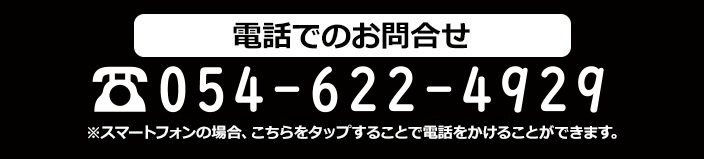
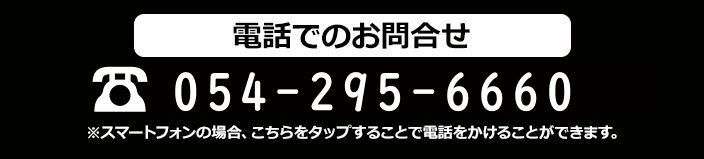
20210224k

Changed region(s): [[0.2188, 0.4025, 0.875, 0.7044]]

diff --git a/index.html b/index.html
@@ -14,7 +14,7 @@
     </head>
     <body style="background-image: url(motiba.png);background-size: cover;">
 <a href="https://mochi-house-koruno.work/contact/" target="_top" id="HyperLinkz"> <img src="tel_banner3.jpg" id="HyperLink4" alt="お問い合わせ" style="position: absolute;top:82%;margin-right: auto; padding-left:13%; width: 55vh;height: auto;" rel="noopener"> </a>
-<a href="tel:0546224929" id="HyperLink"><img src="tel_banner2.jpg" id="HyperLink2" alt=" " style="position: absolute;top:82%;margin-right: auto; padding-left:13%; width: 55vh;height: auto;" rel="noopener"></a>
+<a href="tel:0542956660" id="HyperLink"><img src="tel_banner2.jpg" id="HyperLink2" alt=" " style="position: absolute;top:82%;margin-right: auto; padding-left:13%; width: 55vh;height: auto;" rel="noopener"></a>
 <img src="tel_banner2.jpg" id="HyperLink25" alt=" " style="position: absolute;top:82%;margin-right: auto; padding-left:13%; width: 55vh;height: auto;" rel="noopener"></a>
         <script type="text/javascript" src="js/libs/pixi.js"></script>
         <script type="text/javascript" src="js/libs/pixi-tilemap.js"></script>
